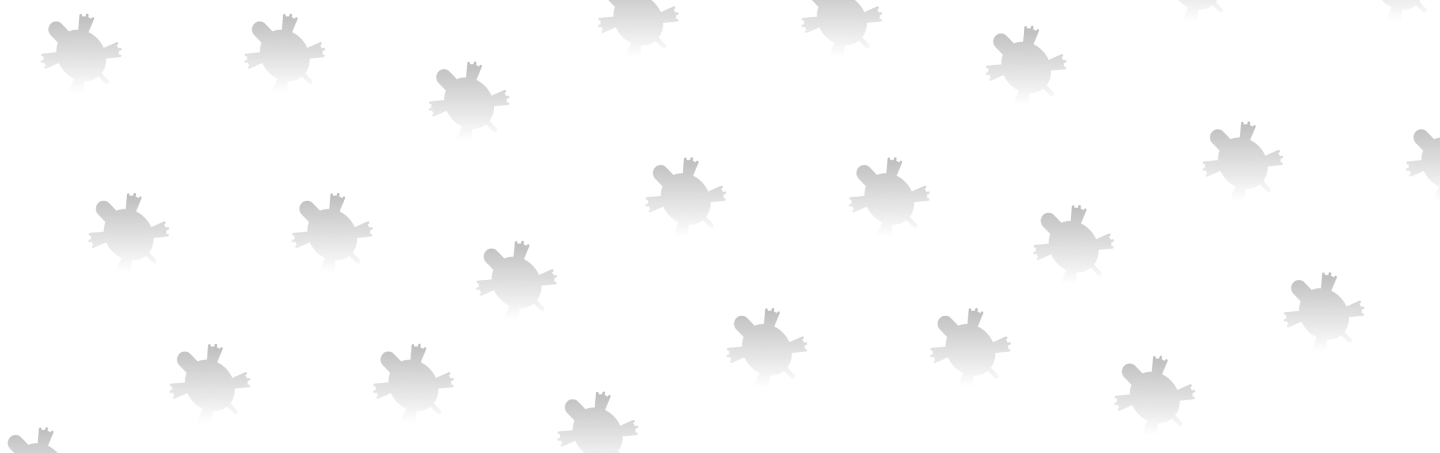
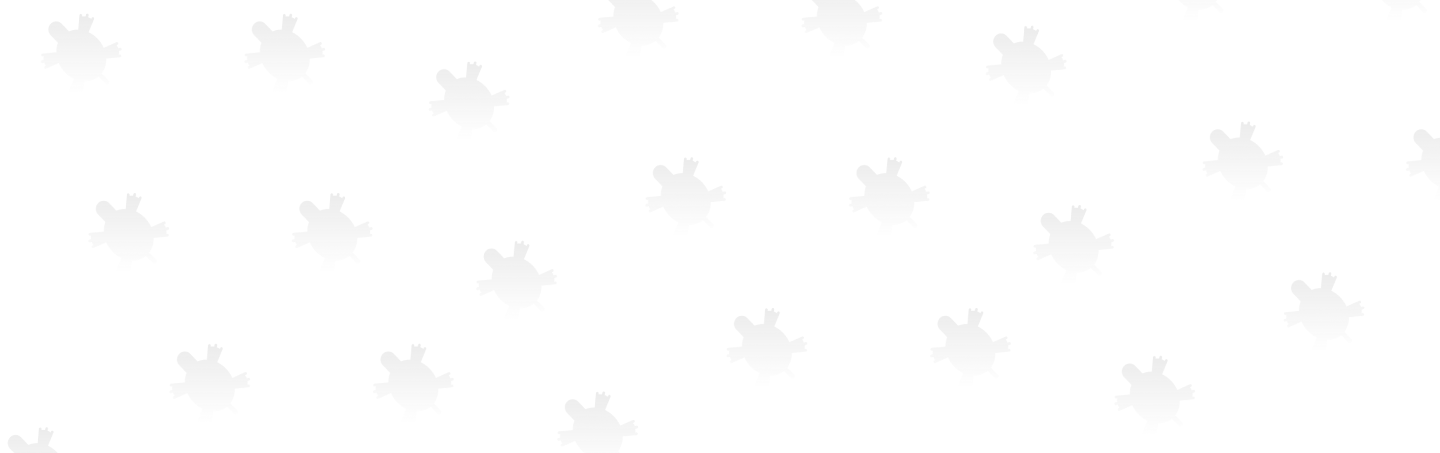
Updated colors.

diff --git a/src/global.css b/src/global.css
@@ -1,6 +1,6 @@
 @import url("https://use.typekit.net/ist1qbx.css");
 
-:root {
+/* :root {
   --white: #f5f5f5;
   --black: #141414;
   --button-gray: #1a1a1a;
@@ -9,6 +9,17 @@
   --light-gray: #5b5b5b;
   --inactive-gray: #7e7e7e;
   --nav-gray: #1c1c1c;
+  --footer-gray: #888888;
+} */
+:root {
+  --white: #2d2d2d;
+  --black: #f5f5f5;
+  --button-gray: #dadada;
+  --cta-gray: #d7d7d7;
+  --border-gray: #c1c1c1;
+  --light-gray: #adadad;
+  --inactive-gray: #6c6c6c;
+  --nav-gray: #dddddd;
   --footer-gray: #888888;
 }
 
@@ -20,8 +31,8 @@ body {
 
 #shadow,
 #copyButton {
-  box-shadow: 0px -3px 17.9px 0px rgba(0, 0, 0, 0.25) inset,
-    0px 4px 4px 0px rgba(0, 0, 0, 0.25);
+  box-shadow: 0px -3px 17.9px 0px rgba(0, 0, 0, 0.05) inset,
+    0px 4px 4px 0px rgba(0, 0, 0, 0.05);
 }
 
 .hidden {
